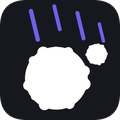
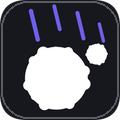
README: 3ページへの導線を最初の画面に置き、購入予定者が読む面にする
これまで README に3ページのリンクが1つも無く、技術メモから始まっていた。

- 冒頭にロゴ・一文の紹介・本体の図（docs/hero.png・実データから生成）
- 見出し「取扱説明書・カラーシミュレーター・arare Studio」で3枚のカード。
  見出し自体が3つを名乗るので、GitHub の目次と画像が出ない環境でも届く。
  リンクが開けない場合に備えて生URLも併記
- できること／まず見てほしいもの／使いはじめる／ランプの見かた／仕様／
  リポジトリの中身 の順。技術情報は下に置き、ピン割当とフェーズ2は details に畳んだ

あわせて事実の食い違いを修正:
- ランプの境界を実装に合わせた（緑=60%以上／橙=20%超〜60%未満／赤=20%以下。
  「20%を切ると」→「20%以下になると」）。取扱説明書側も同時に修正
- 点滅は使用中のみ・充電中と放置中は光らない、を明記
- TMR は磁気式（「電磁式」は別方式を指す語）。取扱説明書側も修正
- USB-C のとなりの穴は2つ（リセットとランプ）と書き分け
- settings_reset は左右に書いたあと arare_R/L を書き直す手順を明示
- arare_matrix.json / .kicad_pcb はリポジトリに無いのでファイル名表記をやめた
- 取扱説明書へのリンクを #parts / #start のアンカー付きにした
  （hash 付きURLは入場アニメを自動でスキップするので本文に直行する）
- model/README.md の「霰」を表記ルール（小文字の arare）に合わせた
- アイコン3点に細い枠を焼き込み、GitHub のライト/ダーク両テーマで縁が消えないようにした

Changed region(s): [[0.0, 0.0, 1.0, 1.0]]

diff --git a/docs/manual.html b/docs/manual.html
@@ -1305,7 +1305,7 @@ footer .mono{font-family:var(--mono); font-size:11px; letter-spacing:.14em; text
     <thead><tr><th>色</th><th>残量</th></tr></thead>
     <tbody>
       <tr><td><span class="k">緑</span></td><td>60 % 以上</td></tr>
-      <tr><td><span class="k">橙</span></td><td>20 &#12316; 60 %</td></tr>
+      <tr><td><span class="k">橙</span></td><td>20 % より上、60 % 未満</td></tr>
       <tr><td><span class="k">赤</span></td><td>20 % 以下</td></tr>
     </tbody>
   </table>
@@ -1316,8 +1316,8 @@ footer .mono{font-family:var(--mono); font-size:11px; letter-spacing:.14em; text
     <tbody>
       <tr><td>電源を入れたとき</td><td>残量の色が 1.5 秒つきます</td></tr>
       <tr><td>しばらく置いたあと、また使いはじめたとき</td><td>同じく 1.5 秒つきます</td></tr>
-      <tr><td>残量が 20 % を切ったとき</td><td>その場で赤く 2 回点滅。以降、使っているあいだ 5 分ごとに知らせます</td></tr>
-      <tr><td>残量が 10 % を切ったとき</td><td>赤く 3 回点滅。以降 2 分ごとに知らせます</td></tr>
+      <tr><td>残量が 20 % 以下になったとき</td><td>その場で赤く 2 回点滅。以降、使っているあいだ 5 分ごとに知らせます</td></tr>
+      <tr><td>残量が 10 % 以下になったとき</td><td>赤く 3 回点滅。以降 2 分ごとに知らせます</td></tr>
       <tr><td>USB-C をつないでいるあいだ</td><td>残量の色がつきっぱなしになります。緑に変われば充電が進んだ合図です</td></tr>
     </tbody>
   </table>
@@ -1741,7 +1741,7 @@ footer .mono{font-family:var(--mono); font-size:11px; letter-spacing:.14em; text
       <tr><td>本体サイズ</td><td>片手あたり 122.5 &times; 96.4 mm ／ 高さ 23.8 mm（右）・28.1 mm（左・ノブ含む）</td></tr>
       <tr><td>キーピッチ</td><td>17 &times; 17 mm</td></tr>
       <tr><td>キースイッチ</td><td>Kailh Choc v2 互換・ホットスワップ（出荷時：静音リニア 40 gf）</td></tr>
-      <tr><td>ポインティング</td><td>19 mm トラックボール（光学センサー）／ TMR 電磁式スティック</td></tr>
+      <tr><td>ポインティング</td><td>19 mm トラックボール（光学センサー）／ TMR 磁気式スティック</td></tr>
       <tr><td>ロータリー</td><td>縦型ノブ（左・水平に回す）／ 横型ホイール（右・前後に転がす）各 1、押し込み付き</td></tr>
       <tr><td>マイコン</td><td>Seeed XIAO nRF52840（技適取得済みモジュール）</td></tr>
       <tr><td>電源</td><td>リチウムポリマー電池（左右各 1）／ USB-C 充電</td></tr>

diff --git a/README.md b/README.md
@@ -1,50 +1,213 @@
-# arare
+<p align="center">
+  <picture>
+    <source media="(prefers-color-scheme: dark)" srcset="docs/readme-logo-white.png">
+    <img src="docs/readme-logo-black.png" alt="arare" width="420">
+  </picture>
+</p>
 
-arare（霰）は左右分割・完全無線（BLE/ZMK）・ロープロファイル（Choc v2）の自作キーボードです。
+<p align="center">
+  左右分割・完全無線のロープロファイルキーボードです。<br>
+  右手にトラックボール、左手にスティックを載せていて、<br>
+  ホームポジションから手を大きく動かさないまま、打つ・指す・回すができます。
+</p>
 
-- 実キー40（左21/右19）＋機能タクトSW4、キーピッチ17mm
-- 右手: 19mmトラックボール（PAW3222）＋水平ロータリーエンコーダ（CKW12）
-- 左手: ジョイスティック（Joy-Con型）＋縦型ロータリーエンコーダ（EC12）
-- MCU: Seeed XIAO nRF52840 ×2、ZMK Studio対応
+<p align="center">
+  <img src="docs/hero.png" alt="arare 本体を上から見た図。左手側にノブとスティック、右手側にホイールとトラックボール" width="820">
+</p>
 
-## 公開データ
+## 取扱説明書・カラーシミュレーター・arare Studio
 
-| データ | 場所 |
+ブラウザで開くだけの3つのページです。**アカウント登録もインストールも要りません。実機が手元になくても開けます。**
+
+<div align="center">
+<table>
+<tr>
+<td align="center" width="33%">
+<a href="https://amearare54.github.io/zmk-config-arare/manual.html"><img src="docs/icon-manual.png" alt="" width="72"></a><br>
+<a href="https://amearare54.github.io/zmk-config-arare/manual.html"><b>取扱説明書</b></a><br>
+どんなキーボードか知る
+</td>
+<td align="center" width="33%">
+<a href="https://amearare54.github.io/zmk-config-arare/colorsim.html"><img src="docs/icon-colorsim.png" alt="" width="72"></a><br>
+<a href="https://amearare54.github.io/zmk-config-arare/colorsim.html"><b>カラーシミュレーター</b></a><br>
+色を決めるとき
+</td>
+<td align="center" width="33%">
+<a href="https://amearare54.github.io/zmk-config-arare/"><img src="docs/icon-studio.png" alt="" width="72"></a><br>
+<a href="https://amearare54.github.io/zmk-config-arare/"><b>arare Studio</b></a><br>
+キーを変えたくなったら
+</td>
+</tr>
+</table>
+</div>
+
+> [!TIP]
+> リンクが開けないときは、こちらから直接どうぞ。
+> 取扱説明書 <https://amearare54.github.io/zmk-config-arare/manual.html> ／
+> カラーシミュレーター <https://amearare54.github.io/zmk-config-arare/colorsim.html> ／
+> arare Studio <https://amearare54.github.io/zmk-config-arare/>
+>
+> arare Studio で実機につないで書き換える機能だけ、Chrome / Edge が必要です。
+> 取扱説明書は開いたときに短い演出（4.6秒）が流れますが、クリックなどでいつでも飛ばせます。
+
+ZMK の設定・ピン割当・ビルドを見に来た方は [技術情報](#技術情報) へどうぞ。
+
+## arare でできること
+
+| | できること |
 |---|---|
-| ファームウェア（ZMK設定） | このリポジトリ（`config/`） |
-| ケース・プレート等の3Dプリントデータ | [`model/case/`](model/case/)（**個人使用のみ** → [model/README.md](model/README.md)） |
-| ロゴ（SVG/PNG/DXF/STL） | [`model/logo/`](model/logo/)（**個人使用のみ**） |
-| 基板データ（KiCad/ガーバー） | **非公開** |
-| キーキャップ3Dデータ | **非公開** |
+| 右手・トラックボール | &#216;19 mm の光学センサー式。指で転がしてポインタを動かします。 |
+| 右手・ホイール | 軸は左右方向で、前後に転がします（マウスのスクロールホイールと同じ向き）。出荷時は回すとページ送り、押し込みで左クリック。 |
+| 左手・ノブ | 軸は上向きで、ボリュームつまみのように水平に回します。出荷時は回すと音量、押し込みで &#8679;&#8984;V。 |
+| 左手・スティック | トラックパッドの代わりとして載せています。2 本指・3 本指でするような操作を、親指ひとつでできるように、というつもりです。倒す操作（アナログ入力）は準備中で、いまは押し込みのみ有効です。 |
+| 完全無線 | 左右それぞれに電池とマイコンがあり、間をつなぐケーブルがありません。残量はマイコンのランプが色で知らせます。 |
+| ホットスワップ | Kailh Choc v2 互換のキースイッチを、はんだ付けなしで差し替えられます。 |
+| キーマップ | ブラウザから何度でも変えられます（[arare Studio](https://amearare54.github.io/zmk-config-arare/)）。 |
 
----
+## まず見てほしいもの
 
-## ZMK設定について
+**1. 大きさと各部を見る** → [取扱説明書の「各部の名称」](https://amearare54.github.io/zmk-config-arare/manual.html#parts)
 
-## 構成（2026-08-31 全面書き直し）
+平面図・側面図・正面図に寸法を入れた総組立図を載せています。コンセプト、はじめかた、出荷時のキーマップ、名前の由来、仕様・お手入れ・安全にお使いいただくために、なども入っています。
+
+**2. 色を決める** → [カラーシミュレーターを開く](https://amearare54.github.io/zmk-config-arare/colorsim.html)
+
+ケースは3Dプリントなので、部品ごとに色を選べます。実機と同じ3Dデータをブラウザに載せていて、クリア樹脂の見えかたも再現します。EXPLODE で分解図、AUTO でゆっくり回しながら確かめられます。
+
+**3. キー配列を見る** → [arare Studio を開く](https://amearare54.github.io/zmk-config-arare/)
+
+実機がなくても、配置図の上でキーの割り当てを触ってみられます。
+
+## 使いはじめる
+
+1. **電源を入れる** — 左右それぞれの側面にあるスライドスイッチを内側（ON）へ。左右とも忘れずに。
+2. **パソコンとつなぐ** — Bluetooth の一覧から `arare` を選びます。一覧に出るのは右手側だけで、左手側は右手側と自動でつながります。
+3. **キーの割り当てを変える** — 書き換える前に、内側のタクトスイッチ（UNLOCK）を一回押します。→ [arare Studio](https://amearare54.github.io/zmk-config-arare/)
+
+### ランプの見かた
+
+USB-C のとなりに、同じ大きさの小さな穴が2つあります。片方がマイコン基板のリセットスイッチ、もう片方がランプです（どちらがどちらかは [取扱説明書の各部の名称](https://amearare54.github.io/zmk-config-arare/manual.html#parts) の図で確かめられます）。
+
+ランプは電池残量を色で知らせます。ふだんは消えています。
+
+| 色 | 残量 |
+|---|---|
+| 緑 | 60 % 以上 |
+| 橙 | 20 % より上、60 % 未満 |
+| 赤 | 20 % 以下 |
+
+電源を入れたときと、しばらく置いてから使いはじめたときに 1.5 秒だけ点きます。残量が 20 % 以下になると赤く2回点滅して以降5分ごと、10 % 以下になると赤く3回点滅して以降2分ごとに知らせます。**点滅するのは使っているあいだだけで、置きっぱなしのときと充電中は光りません。** USB-C をつないでいるあいだは、残量の色が点いたままになります。
+
+> [!TIP]
+> つながらないとき、充電のしかた、接続先の切り替えは、[取扱説明書の「はじめかた」](https://amearare54.github.io/zmk-config-arare/manual.html#start) にまとめています。
+
+## 仕様
+
+| 項目 | 内容 |
+|---|---|
+| 方式 | 左右分割・Bluetooth LE 接続（ZMK ファームウェア） |
+| キー数 | 実キー40（左21／右19）＋エンコーダー押し込み2／スティック押し込み1／タクトスイッチ4（計47ポジション） |
+| 本体サイズ | 片手あたり 122.5 &#215; 96.4 mm ／ 高さ 23.8 mm（右）・28.1 mm（左・ノブ含む） |
+| キーピッチ | 17 &#215; 17 mm |
+| キースイッチ | Kailh Choc v2 互換・ホットスワップ |
+| ポインティング | 19 mm トラックボール（光学センサー・PAW3222）／ TMR 磁気式スティック |
+| ロータリー | 縦型ノブ（左・水平に回す）／ 横型ホイール（右・前後に転がす）各1、押し込み付き |
+| マイコン | Seeed XIAO nRF52840 &#215;2（技適取得済みモジュール・central は右手） |
+| 電源 | リチウムポリマー電池（左右各1）／ USB-C 充電 |
+| ケース | 3Dプリント・ガスケットマウント構造 |
+| 対応 | Bluetooth LE キーボードとして動作する機器（macOS / Windows / iOS / iPadOS / Android など） |
+| 編集ツール | arare Studio（ブラウザ）／ ZMK Studio 互換 |
+
+## このリポジトリにあるもの
+
+| もの | 場所 | 条件 |
+|---|---|---|
+| 3つのページの実体 | [`docs/`](docs/) | 公開 |
+| ファームウェア（ZMK設定） | [`config/`](config/) | 公開 |
+| 電池残量ランプの自前モジュール | [`src/battery_led.c`](src/battery_led.c) / [`Kconfig`](Kconfig) / [`CMakeLists.txt`](CMakeLists.txt) | 公開 |
+| ケース・プレート・ノブ等の3Dプリントデータ | [`model/case/`](model/case/) | 個人使用のみ |
+| ロゴ（SVG / PNG / DXF / STL） | [`model/logo/`](model/logo/) | 個人使用のみ |
+
+> [!IMPORTANT]
+> `model/` の3Dデータとロゴは、個人使用のみにとどめてください。再配布・商用利用はご遠慮ください（→ [model/README.md](model/README.md)）。
+> カラーシミュレーターに埋め込まれている3Dデータも同じ条件です。
+
+**まだ公開していないもの**
+
+- 基板データ（KiCad / ガーバー）
+- キーキャップの3Dデータ
+
+基板データが非公開のため、ここに公開しているデータだけで1台を組み上げることはできません。
+
+**これからやること**
+
+- スティックのアナログXY入力
+- DYA Studio のフル対応
+- 深いスリープ（現在は無効）
+
+理由は [技術情報](#技術情報)の「いまできないこと」に書いています。
+
+## 技術情報
+
+- ZMK v0.3.0 / ボードは `seeeduino_xiao_ble` &#215;2、central = 右手
+- マトリクスは charlieplex 6線
+- トラックボールは PAW3222。ドライバは sekigon-gonnoc/zmk-driver-paw3222（torabo-tsuki ブランチ）
+- ZMK Studio 対応（central = 右手に USB 接続して <https://zmk.studio/> でも使えます）。アンロックキー＝各手内側のタクトSW、外側＝その手のリセット
+- ピン割当とマトリクス定義は、非公開の基板データ（KiCad）と機械照合しています
+
+### ビルドと書き込み
+
+1. push すると GitHub Actions がビルドします（`arare_R`＝Studio snippet 付き / `arare_L` / `settings_reset`）
+2. Actions の Artifacts から UF2 をダウンロードします
+3. XIAO を BOOT モード（リセット2度押し）にすると、USB ドライブとして見えます
+4. UF2 をそこにコピーすると書き込まれます
+
+書き込みは左右それぞれに必要です。
+
+> [!WARNING]
+> 設定がおかしくなったときは、左右それぞれに `settings_reset` を書き込んでから、`arare_R` / `arare_L` を書き直してください。`settings_reset` を書き込んだままではキーボードとして動きません。
+
+<details>
+<summary>ピン割当とマトリクス</summary>
 
 | | 左手 (peripheral) | 右手 (**central**) |
 |---|---|---|
 | ボード | seeeduino_xiao_ble | seeeduino_xiao_ble |
 | マトリクス | charlieplex 6線 (M0=D0 M1=D1 M2=D6 M3=D7 M4=D8 M5=D9) | charlieplex 6線 (M0..M5=D0..D5) |
 | エンコーダ | EC12縦 (D2/D3) 押込=Shift+Cmd+V | CKW12横 (D6/D7) 押込=左クリック |
-| ポインタ | ジョイスティック押込=D10直結キー（アナログXYは未実装※） | PAW3222 (spi1: SCK=P1.13 SDIO=P1.14 CS=P1.15 MOTION=P0.09) |
+| ポインタ | スティック押込=D10直結キー（アナログXYは未実装） | PAW3222 (spi1: SCK=P1.13 SDIO=P1.14 CS=P1.15 MOTION=P0.09) |
 
-- ZMK v0.3.0 / PAW3222ドライバ = sekigon-gonnoc/zmk-driver-paw3222 (torabo-tsukiブランチ)
-- ZMK Studio対応（central=右手にUSB接続して https://zmk.studio/ ）。アンロックキー＝各手内側のタクトSW
-- タクトSW外側＝その手のリセット
-- ピン割当・マトリクス定義は基板実データ（arare_matrix.json / .kicad_pcb）と機械照合済み
+電池残量ランプは `CONFIG_ARARE_BATTERY_LED` で有効にする自前モジュールです（`zephyr/module.yml` から `Kconfig` と `CMakeLists.txt` を読み込み、`src/battery_led.c` をビルドします）。しきい値・点灯時間・警告間隔は `Kconfig` で変えられます。
 
-## ビルド
+</details>
 
-pushするとGitHub Actionsがビルド（`arare_R`=Studio snippet付き / `arare_L` / `settings_reset`）。
-ArtifactsのUF2を、XIAOのBOOTモード（リセット2度押し）で書き込む。
+<details>
+<summary>いまできないこと（フェーズ2・既知の制約）</summary>
 
-## ※フェーズ2（未実装）
+- **スティックのアナログXY**: badjeff/zmk-analog-input-driver を使う予定ですが、ZMK 本体のバッテリー計測が SAADC oversampling=4 をハードコードしており、併用すると約1分でハングする既知問題があります（ZMK フォークで oversampling=0 にするか、左手の電池報告を無効にする必要があります）。
+- **DYA Studio フル対応**: キーマップ編集は公式 ZMK Studio 対応のまま DYA Studio からも使えます。トラックボール調整等のフル機能には cormoran/zmk フォーク＋モジュール4点が必要です（experimental 宣言あり）。
+- **深いスリープ（`CONFIG_ZMK_SLEEP`）**: charlieplex が割込を持てず復帰不能なため、無効のままです。電源は物理スイッチで切ります。
 
-- **ジョイスティックのアナログXY**: badjeff/zmk-analog-input-driver を使う予定だが、
-  ZMK本体のバッテリー計測が SAADC oversampling=4 をハードコードしており併用すると約1分でハングする
-  既知問題がある（ZMKフォークで oversampling=0 にするか、左手の電池報告を無効にする必要あり）。
-- **DYA Studio フル対応**: キーマップ編集は公式ZMK Studio対応のままDYA Studioからも使える。
-  トラックボール調整等のフル機能は cormoran/zmk フォーク＋モジュール4点が必要（experimental宣言あり）。
-- 深いスリープ（CONFIG_ZMK_SLEEP）はcharlieplexが割込を持てず復帰不能のため無効のまま。電源は物理SW。
+</details>
+
+## 名前のこと
+
+「感謝感激雨あられ」の **あられ** から取りました。世に出ている良いキーボードの設計を参考にさせていただいたことへの**感謝**と、使ってくださる方に**感激**してほしいという願いを、そのまま名前にしています。
+
+ロゴの文字には、和の気象の意匠が彫ってあります。霞・雨・波紋・しずく。遠目にはただの文字ですが、近づくと天気が見えてきます。表記は小文字の arare で通しています。
+
+## 利用条件
+
+- `config/` `src/` `Kconfig` `CMakeLists.txt` `zephyr/` のファームウェアと `docs/` のページ … 公開しています。参照や、ご自身の arare 用のビルドにお使いいただけます
+- `model/case/` `model/logo/` の3Dデータとロゴ … 個人使用のみ。再配布・商用利用はご遠慮ください（→ [model/README.md](model/README.md)）
+- 基板データ（KiCad / ガーバー）、キーキャップの3Dデータ … 非公開です
+
+気づいたことや質問は Issues へどうぞ。
+
+---
+
+<p align="center">
+  <a href="https://amearare54.github.io/zmk-config-arare/manual.html">取扱説明書</a> ・
+  <a href="https://amearare54.github.io/zmk-config-arare/colorsim.html">カラーシミュレーター</a> ・
+  <a href="https://amearare54.github.io/zmk-config-arare/">arare Studio</a>
+</p>

diff --git a/model/README.md b/model/README.md
@@ -20,7 +20,7 @@
 
 ## ロゴ（logo/）
 
-「arare＝霰」に掛けて、文字ごとに和の気象モチーフ（霞・雨・波紋・しずく）が入っています。
+「arare（あられ）」に掛けて、文字ごとに和の気象モチーフ（霞・雨・波紋・しずく）が入っています。
 
 | ファイル | 内容 |
 |---|---|
